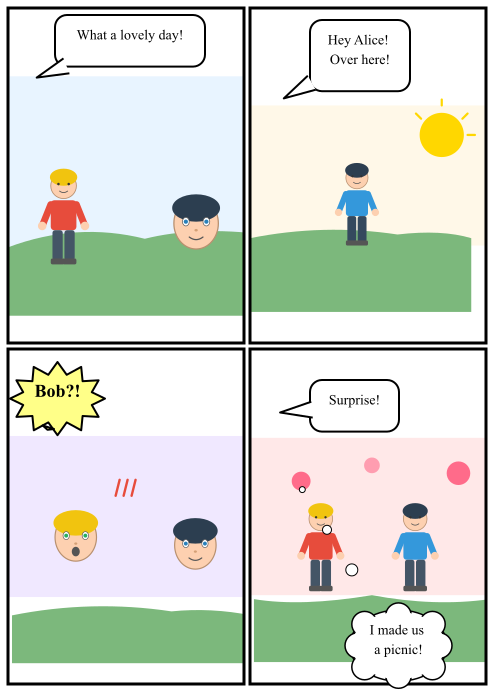
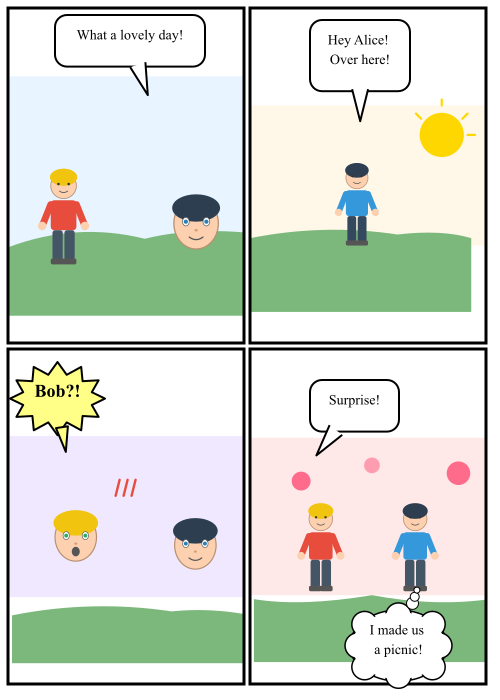
Fix arrow/bubble targeting: restore element's own position in center calc
elementCenter() was missing the element's own EffectiveX/Y after
the viewport-aware refactor, causing all arrows in non-viewport
graphs to point at (0,0). Now correctly computes:
  parent_offset + (element_pos + half_size) * scale

diff --git a/render/arrows.go b/render/arrows.go
@@ -34,22 +34,15 @@ func collectIDsRecursive(el *scene.Element, ids map[string]*scene.Element) {
 // elementCenter returns the absolute center point of an element,
 // walking up the tree to accumulate group translations and viewport scaling.
 func elementCenter(el *scene.Element, elements []*scene.Element) (cx, cy float64) {
-	// findParentOffset now returns the fully transformed position including
-	// viewport scaling. The element's own position is accumulated as part
-	// of the recursive walk, so we just need to add the element's local
-	// center offset (half width/height), scaled by the parent chain's scale.
-	//
-	// For simplicity, we find the offset to the element itself (which includes
-	// the element's EffectiveX/Y already scaled), then add half-size.
-	// We need the scale at the element's level to adjust the half-size.
+	// findParentOffset returns the accumulated offset of the parent chain
+	// (NOT including the element's own position).
 	ox, oy := findParentOffset(el, elements)
 
-	// The element's own position was already added in findOffsetRecursive
-	// when it matched target==current. So ox,oy is the top-left of the element
-	// in absolute space. We need to add half the element's rendered size.
-	// Since the element may be inside a viewport, we need the cumulative scale.
+	// Get the scale factor at this element's level (from viewport transforms)
 	sx, sy := findScale(el, elements)
-	return ox + el.ComputedWidth*sx/2, oy + el.ComputedHeight*sy/2
+
+	// Add the element's own position and half-size, scaled appropriately
+	return ox + (el.EffectiveX()+el.ComputedWidth/2)*sx, oy + (el.EffectiveY()+el.ComputedHeight/2)*sy
 }
 
 // findScale returns the cumulative scale factor for an element from viewport transforms.
